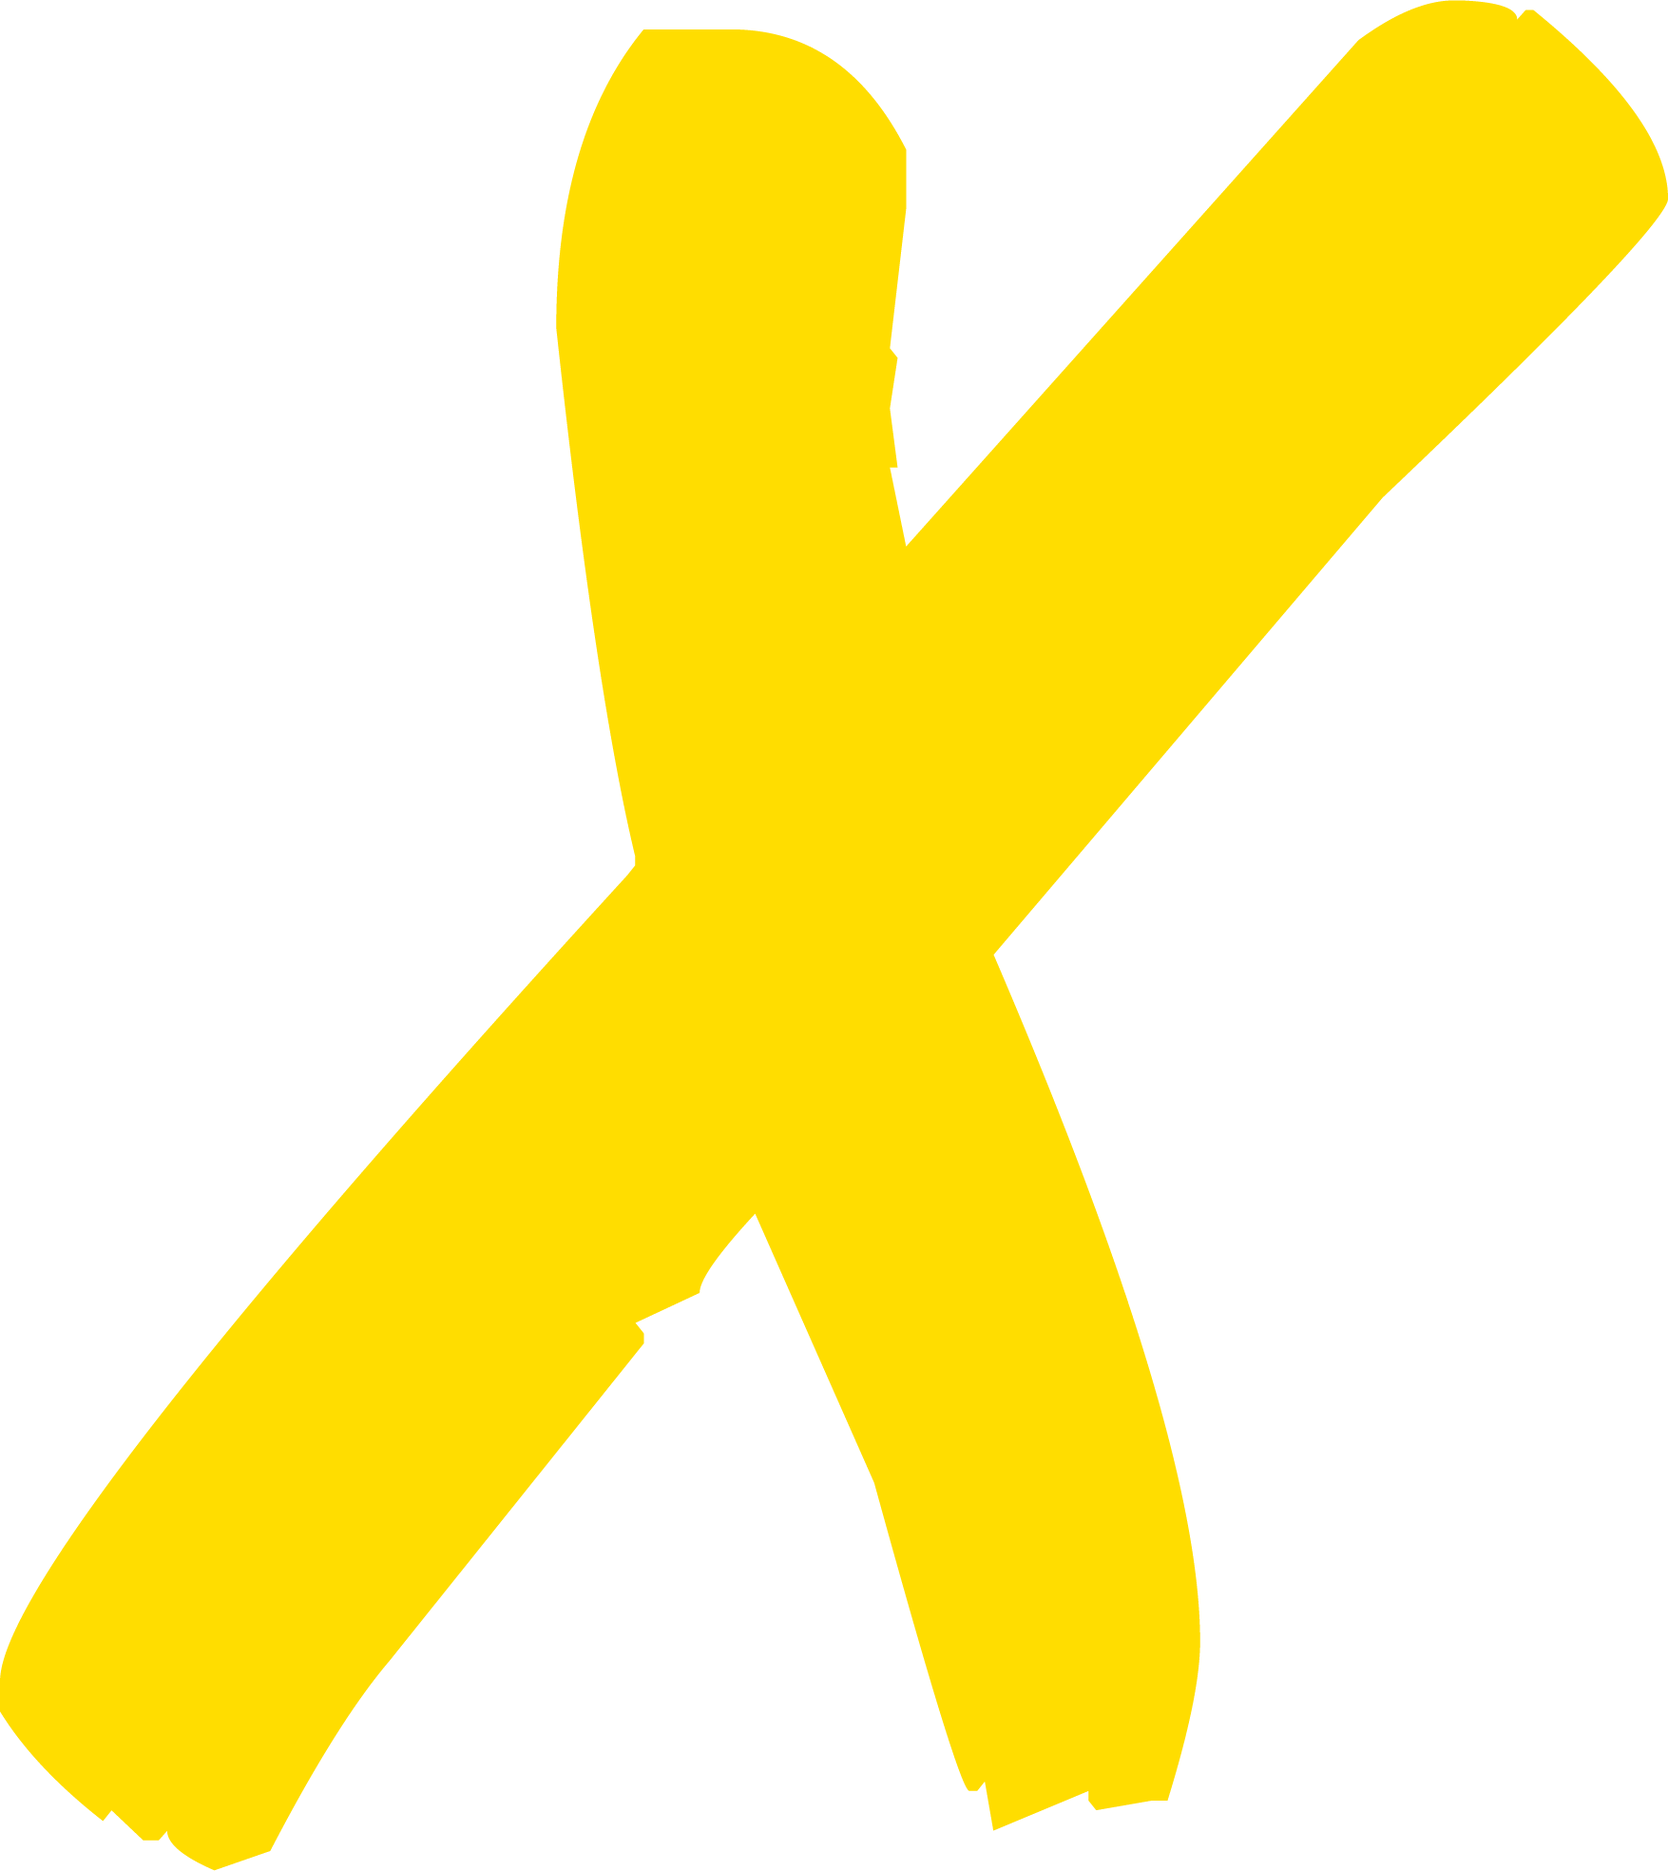
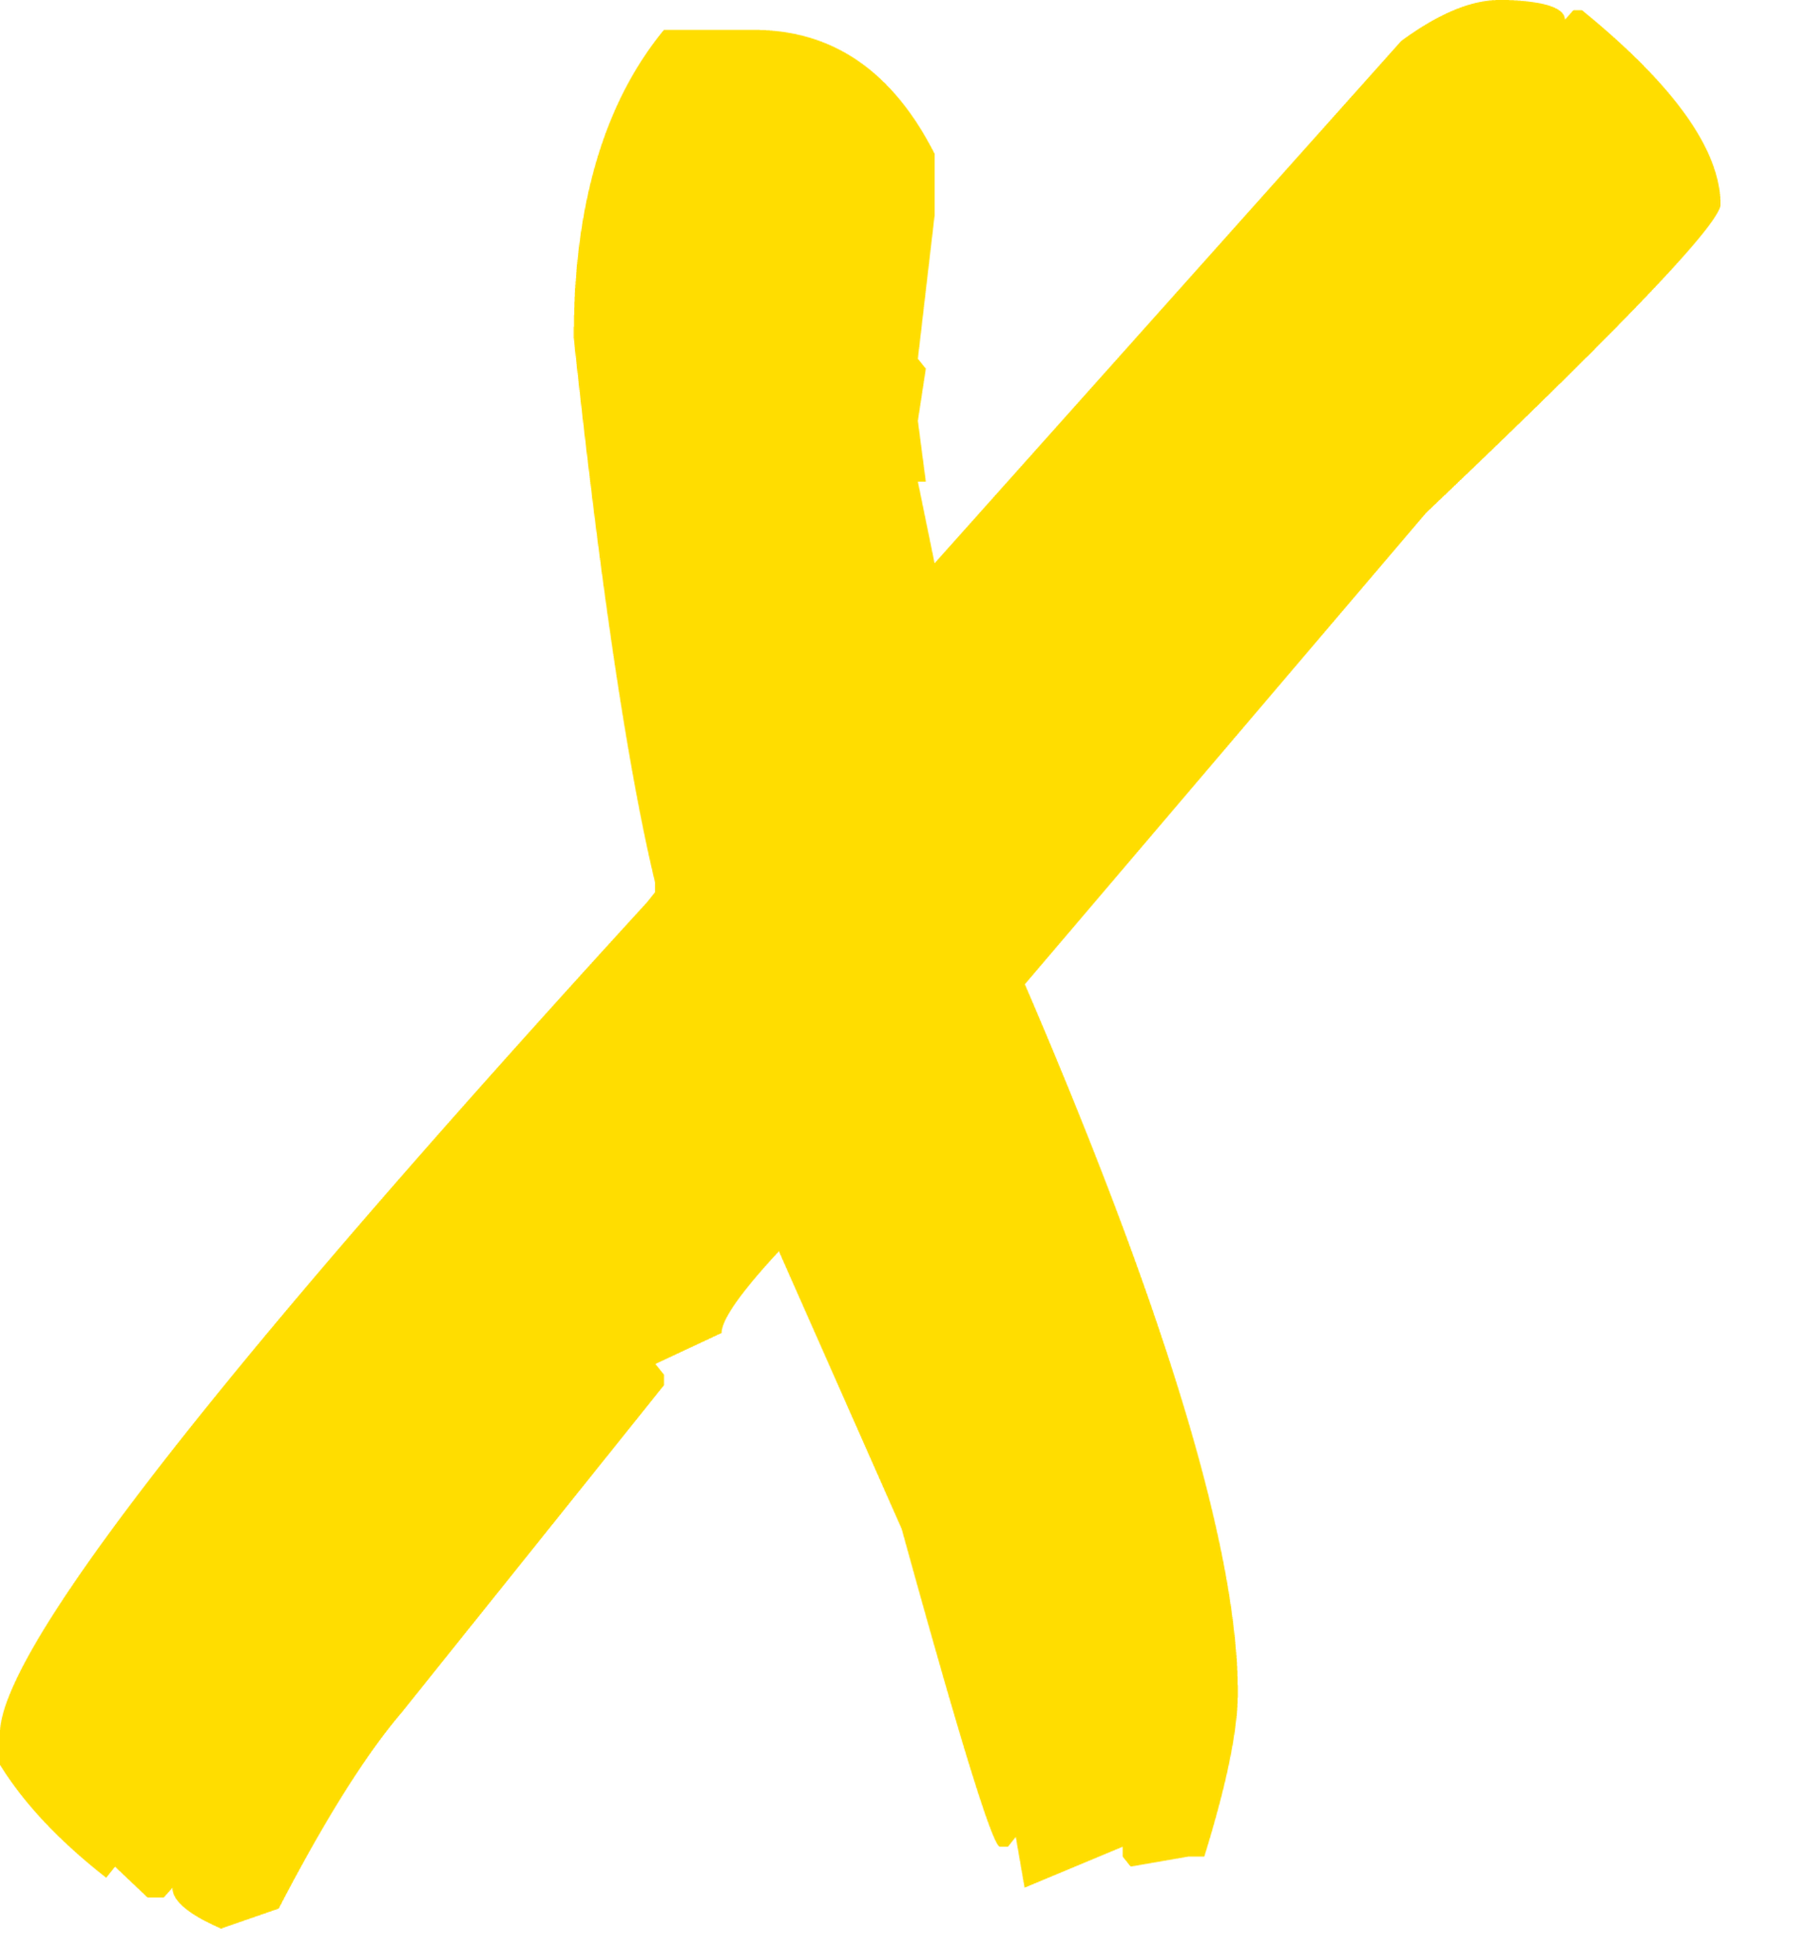
Add files via upload

diff --git a/index.html b/index.html
@@ -3,13 +3,15 @@
 <head>
   <!-- AGE GATE: pre-hydration lock -->
   <script>
+    // Hide entire app immediately so nothing shows behind the gate
     (function(){ try { document.documentElement.classList.add('agegate-active'); } catch(e){} })();
   </script>
   <style>
+    /* Hide everything except our gate */
     .agegate-active body > :not(#age-gate-overlay) { display: none !important; }
     .agegate-active body { overflow: hidden !important; }
 
-    /* Age gate (brand look + colours) */
+    /* Overlay + Card (brand look + colours) */
     #age-gate-overlay {
       position: fixed; inset: 0; z-index: 2147483647;
       display: flex; align-items: center; justify-content: center;
@@ -20,20 +22,26 @@
       background: #fff; color: #333333;
       border: 3px solid #333333; border-radius: 12px;
       box-shadow: 6px 6px 0 #333333; padding: 28px;
-      font-family: "futura-pt","Futura",sans-serif;
+      font-family: "futura-pt", "Futura", sans-serif;
     }
     #age-gate-overlay .brand { display:flex; align-items:center; gap:12px; margin:0 0 10px; }
     #age-gate-overlay .brand img { height: 56px; display:block; }
-    #age-gate-overlay h1 { margin: 4px 0 6px; font-size: 28px; line-height: 1.2; font-weight: 900; text-transform: uppercase; }
+    #age-gate-overlay h1 {
+      margin: 4px 0 6px; font-size: 28px; line-height: 1.2;
+      font-weight: 900; text-transform: uppercase;
+    }
     #age-gate-overlay .row { display:flex; gap:12px; margin-bottom: 12px; }
     #age-gate-overlay input {
       flex:1; min-width: 84px; padding: 12px 10px; text-align:center;
-      border-radius: 10px; border: 3px solid #333333; background: #fff; color:#333333; font-weight: 800;
+      border-radius: 10px; border: 3px solid #333333;
+      background: #fff; color:#333333; font-weight: 800;
     }
     #age-gate-overlay .cta {
       width: 100%; margin-top: 10px;
-      border: 3px solid #333333; background: #FFDD00; color: #333333;
-      font-weight: 900; text-transform: uppercase; border-radius: 10px; box-shadow: 5px 5px 0 #333333;
+      border: 3px solid #333333;
+      background: #FFDD00; color: #333333;
+      font-weight: 900; text-transform: uppercase;
+      border-radius: 10px; box-shadow: 5px 5px 0 #333333;
     }
     #age-gate-overlay .error { color:#b91c1c; font-weight: 700; min-height: 18px; margin-top: 8px; }
     #age-gate-overlay .fineprint { margin: 14px 0 0; font-size: 12px; color:#444; }
@@ -48,7 +56,7 @@
   <link rel="stylesheet" href="https://use.typekit.net/sdg5fiu.css">
 
   <!-- Site styles -->
-  <link rel="stylesheet" href="./style.css" />
+  <link rel="stylesheet" crossorigin href="/assets/index-BaOw0J7Q.css">
 </head>
 
 <body style="font-family:'futura-pt','Futura',sans-serif;">
@@ -74,15 +82,20 @@
     </div>
   </div>
 
-  <!-- React mount -->
+  <!-- Netlify hidden form -->
+  <form name="interest" data-netlify="true" netlify-honeypot="bot-field" hidden>
+    <input type="text" name="name" />
+    <input type="email" name="email" />
+  </form>
+
+  <!-- React Mount -->
   <div id="root"></div>
 
   <!-- Modal for Register Interest -->
   <div id="interestModal" class="modal">
     <div class="modal-card">
-      <span id="closeModal" class="close" aria-label="Close">&times;</span>
+      <span id="closeModal" class="close">&times;</span>
       <h2>Register your interest</h2>
-      <!-- Netlify form lives here (only one form named "interest") -->
       <form name="interest" data-netlify="true" netlify-honeypot="bot-field">
         <input type="text" name="name" placeholder="Name" required>
         <input type="email" name="email" placeholder="Email" required>
@@ -92,27 +105,27 @@
   </div>
 
   <!-- Footer -->
-  <footer style="text-align: center; margin-top: 20px;">
+  <footer style="text-align: center; margin-top: 40px;">
     <div style="display: flex; justify-content: center; gap: 1.5rem; flex-wrap: wrap;">
       <a href="https://www.asahibeverages.com/website-terms-of-use-new-zealand"
-         target="_blank" rel="noopener noreferrer"
-         style="text-decoration: none; border: 3px solid #333333; background: white; color: #333333; padding: 10px 16px; border-radius: 8px; box-shadow: 4px 4px 0 #333333; font-weight: 700;"
-         onmouseover="this.style.background='#FFDD00'; this.style.boxShadow='2px 2px 0 #333333'"
-         onmouseout="this.style.background='white'; this.style.boxShadow='4px 4px 0 #333333'">
+        target="_blank" rel="noopener noreferrer"
+        style="text-decoration: none; border: 3px solid #333333; background: white; color: #333333; padding: 10px 16px; border-radius: 8px; box-shadow: 4px 4px 0 #333333; font-weight: 700;"
+        onmouseover="this.style.background='#FFDD00'; this.style.boxShadow='2px 2px 0 #333333'"
+        onmouseout="this.style.background='white'; this.style.boxShadow='4px 4px 0 #333333'">
         Terms of Use
       </a>
       <a href="https://www.asahibeverages.com/privacy-collection-notice"
-         target="_blank" rel="noopener noreferrer"
-         style="text-decoration: none; border: 3px solid #333333; background: white; color: #333333; padding: 10px 16px; border-radius: 8px; box-shadow: 4px 4px 0 #333333; font-weight: 700;"
-         onmouseover="this.style.background='#FFDD00'; this.style.boxShadow='2px 2px 0 #333333'"
-         onmouseout="this.style.background='white'; this.style.boxShadow='4px 4px 0 #333333'">
+        target="_blank" rel="noopener noreferrer"
+        style="text-decoration: none; border: 3px solid #333333; background: white; color: #333333; padding: 10px 16px; border-radius: 8px; box-shadow: 4px 4px 0 #333333; font-weight: 700;"
+        onmouseover="this.style.background='#FFDD00'; this.style.boxShadow='2px 2px 0 #333333'"
+        onmouseout="this.style.background='white'; this.style.boxShadow='4px 4px 0 #333333'">
         Privacy Collection Notice
       </a>
       <a href="https://www.asahibeverages.com/privacy-policy"
-         target="_blank" rel="noopener noreferrer"
-         style="text-decoration: none; border: 3px solid #333333; background: white; color: #333333; padding: 10px 16px; border-radius: 8px; box-shadow: 4px 4px 0 #333333; font-weight: 700;"
-         onmouseover="this.style.background='#FFDD00'; this.style.boxShadow='2px 2px 0 #333333'"
-         onmouseout="this.style.background='white'; this.style.boxShadow='4px 4px 0 #333333'">
+        target="_blank" rel="noopener noreferrer"
+        style="text-decoration: none; border: 3px solid #333333; background: white; color: #333333; padding: 10px 16px; border-radius: 8px; box-shadow: 4px 4px 0 #333333; font-weight: 700;"
+        onmouseover="this.style.background='#FFDD00'; this.style.boxShadow='2px 2px 0 #333333'"
+        onmouseout="this.style.background='white'; this.style.boxShadow='4px 4px 0 #333333'">
         Privacy Policy
       </a>
     </div>
@@ -122,22 +135,18 @@
   <script crossorigin src="https://unpkg.com/react@18/umd/react.production.min.js"></script>
   <script crossorigin src="https://unpkg.com/react-dom@18/umd/react-dom.production.min.js"></script>
 
-  <!-- App (cache-busted so the new app.js loads) -->
-  <script src="./app.js?v=2"></script>
+  <!-- App -->
+  <script src="./app.js"></script>
 
-  <!-- Modal Logic (delegated; works even if React renders button later) -->
+  <!-- Modal Logic -->
   <script>
   document.addEventListener("DOMContentLoaded", function() {
     const modal = document.getElementById("interestModal");
+    const openBtn = document.getElementById("openFormBtn");
     const closeBtn = document.getElementById("closeModal");
-
-    document.addEventListener("click", function(e) {
-      if (e.target && e.target.id === "openFormBtn") {
-        modal.style.display = "flex";
-      }
-    });
+    if (openBtn) openBtn.addEventListener("click", () => modal.style.display = "flex");
     if (closeBtn) closeBtn.addEventListener("click", () => modal.style.display = "none");
-    if (modal) modal.addEventListener("click", (e) => { if (e.target === modal) modal.style.display = "none"; });
+    if (modal) modal.addEventListener("click", e => { if (e.target === modal) modal.style.display = "none"; });
   });
   </script>
 
@@ -147,23 +156,42 @@
     const KEY = 'age_verified_until';
     const ONE_HOUR_MS = 60 * 60 * 1000;
     function now(){ return Date.now(); }
-    function hasPass(){ try { const v = localStorage.getItem(KEY); return v && parseInt(v,10) > now(); } catch(_) { return false; } }
+    function hasPass(){
+      try { const v = localStorage.getItem(KEY); return v && parseInt(v,10) > now(); }
+      catch(_) { return false; }
+    }
     function givePass(){ try { localStorage.setItem(KEY, String(now() + ONE_HOUR_MS)); } catch(_){} }
-    function validDate(y,m,d){ y=+y; m=+m; d=+d; if(!y||!m||!d||y<1900||m<1||m>12) return false; return d>=1 && d<=new Date(y,m,0).getDate(); }
-    function is18(y,m,d){ const t=new Date(), cutoff=new Date(t.getFullYear()-18, t.getMonth(), t.getDate()); return new Date(+y,+m-1,+d) <= cutoff; }
-    function unlock(){ const o=document.getElementById('age-gate-overlay'); if(o&&o.parentNode) o.parentNode.removeChild(o); document.documentElement.classList.remove('agegate-active'); }
+    function validDate(y,m,d){
+      y=+y; m=+m; d=+d;
+      if(!y||!m||!d||y<1900||m<1||m>12) return false;
+      return d>=1 && d<=new Date(y,m,0).getDate();
+    }
+    function is18(y,m,d){
+      const t=new Date(), cutoff=new Date(t.getFullYear()-18, t.getMonth(), t.getDate());
+      return new Date(+y,+m-1,+d) <= cutoff;
+    }
+    function unlock(){
+      const o=document.getElementById('age-gate-overlay');
+      if(o&&o.parentNode) o.parentNode.removeChild(o);
+      document.documentElement.classList.remove('agegate-active');
+    }
     function init(){
       if (hasPass()) return unlock();
-      const f=document.getElementById('age-gate-form'); const e=document.getElementById('age-gate-error'); if(!f) return;
+      const f=document.getElementById('age-gate-form');
+      const e=document.getElementById('age-gate-error');
+      if(!f) return;
       f.addEventListener('submit', ev=>{
         ev.preventDefault(); e.textContent='';
-        const dd=document.getElementById('dob-day').value, mm=document.getElementById('dob-month').value, yy=document.getElementById('dob-year').value;
+        const dd=document.getElementById('dob-day').value;
+        const mm=document.getElementById('dob-month').value;
+        const yy=document.getElementById('dob-year').value;
         if(!validDate(yy,mm,dd)) return e.textContent='Please enter a valid date (DD / MM / YYYY).';
         if(!is18(yy,mm,dd)) return e.textContent='Sorry, you must be 18 or older to enter.';
         givePass(); unlock();
       });
     }
-    if(document.readyState==='loading') document.addEventListener('DOMContentLoaded', init); else init();
+    if(document.readyState==='loading') document.addEventListener('DOMContentLoaded', init);
+    else init();
   })();
   </script>
 </body>

diff --git a/assets/index-baow0j7q.css b/assets/index-baow0j7q.css
@@ -1,0 +1,1 @@
+:root{--brand-font: "futura-pt", Futura, "Avenir Next", Avenir, Montserrat, Arial, sans-serif}html,body,button,input,select,textarea{font-family:var(--brand-font)}*{box-sizing:border-box}html,body{height:100%}body{margin:0;font-family:var(--brand-font);background:#fff;color:#333;overflow-x:hidden}.container{min-height:100vh;display:grid;place-items:center;position:relative;padding:1rem;text-align:center}.bg-x{position:absolute;top:0;right:0;bottom:0;left:0;display:grid;place-items:center;z-index:0;pointer-events:none}.bg-x img{width:auto;max-width:90vw;height:auto;max-height:clamp(280px,90vh,800px);opacity:.95}.content{z-index:1;display:grid;gap:1.25rem;justify-items:center}.logo{width:auto;max-width:clamp(220px,55vw,580px);height:auto;max-height:clamp(120px,20vh,180px)}h1{font-size:clamp(2.75rem,8vw,6rem);margin:.25rem 0 0;font-weight:900;font-style:italic;letter-spacing:.5px}.form-card{width:min(92vw,520px);background:#fff;border:4px solid #333333;border-radius:16px;padding:1rem;box-shadow:8px 8px #333}.form-title{margin:0 0 .5rem;font-size:1.35rem;font-weight:900;color:#bb29bb}.form-grid{display:grid;gap:.6rem}.input{border:3px solid #333333;border-radius:10px;padding:.7rem .9rem;font-size:1rem;width:100%}button.cta{border:3px solid #333333;background:#fd0;padding:.75rem 1.1rem;border-radius:10px;font-weight:900;text-transform:uppercase;box-shadow:5px 5px #333;cursor:pointer;transition:transform .12s ease}button.cta:hover{transform:translateY(-2px)}.success{color:#065f46}small.muted{color:#444;opacity:.8}.modal{display:none;position:fixed;top:0;right:0;bottom:0;left:0;z-index:9999;background:#0000008c;justify-content:center;align-items:center;-webkit-backdrop-filter:blur(2px);backdrop-filter:blur(2px)}.modal-card{position:relative;background:#fff;border:4px solid #333333;border-radius:16px;padding:2rem 1.5rem 2.5rem;box-shadow:8px 8px #333;width:min(92vw,500px);font-family:var(--brand-font);color:#333;text-align:center;animation:modalPop .25s ease-out}@keyframes modalPop{0%{transform:scale(.95) translateY(10px);opacity:0}to{transform:scale(1) translateY(0);opacity:1}}.close{position:absolute;top:14px;right:20px;font-size:30px;font-weight:900;color:#333;cursor:pointer;transition:transform .15s ease}.close:hover{transform:scale(1.2)}.modal-card h2{margin-top:.5rem;margin-bottom:1rem;font-weight:900;color:#bb29bb;text-transform:uppercase}.modal-card input{display:block;width:100%;border:3px solid #333333;border-radius:10px;padding:.75rem 1rem;margin-bottom:1rem;font-size:1rem;color:#333}.modal-card .cta{background:#fd0;border:3px solid #333333;box-shadow:5px 5px #333;border-radius:10px;color:#333;font-weight:900;text-transform:uppercase;width:100%;padding:.8rem 1rem;transition:transform .15s ease}.modal-card .cta:hover{transform:translateY(-2px)}

diff --git a/app.js b/app.js
@@ -9,7 +9,7 @@
       e('div', { className:'content' },
         e('img', { className:'logo', src:'./images/sugar-lockup.png', alt:'Sugar Liquidation Sale' }),
         e('h1', null, 'Coming soon!'),
-        // Modal trigger button (no inline form)
+        // ↓ New: modal trigger button (no inline form here)
         e('div', { className:'form-card', style:{ textAlign:'center' } },
           e('button', { id:'openFormBtn', className:'cta', type:'button' }, 'Register Interest')
         )
